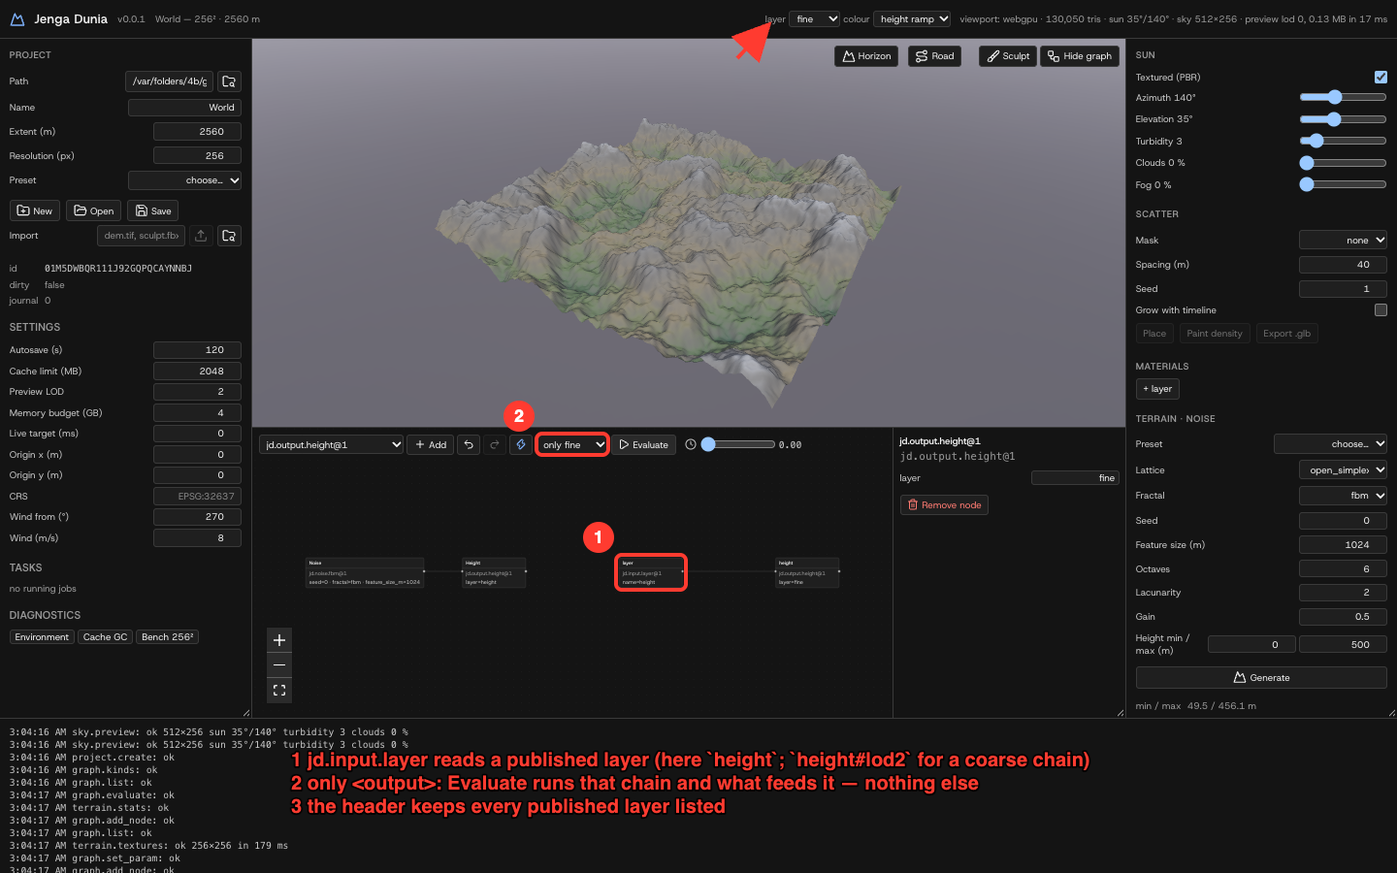
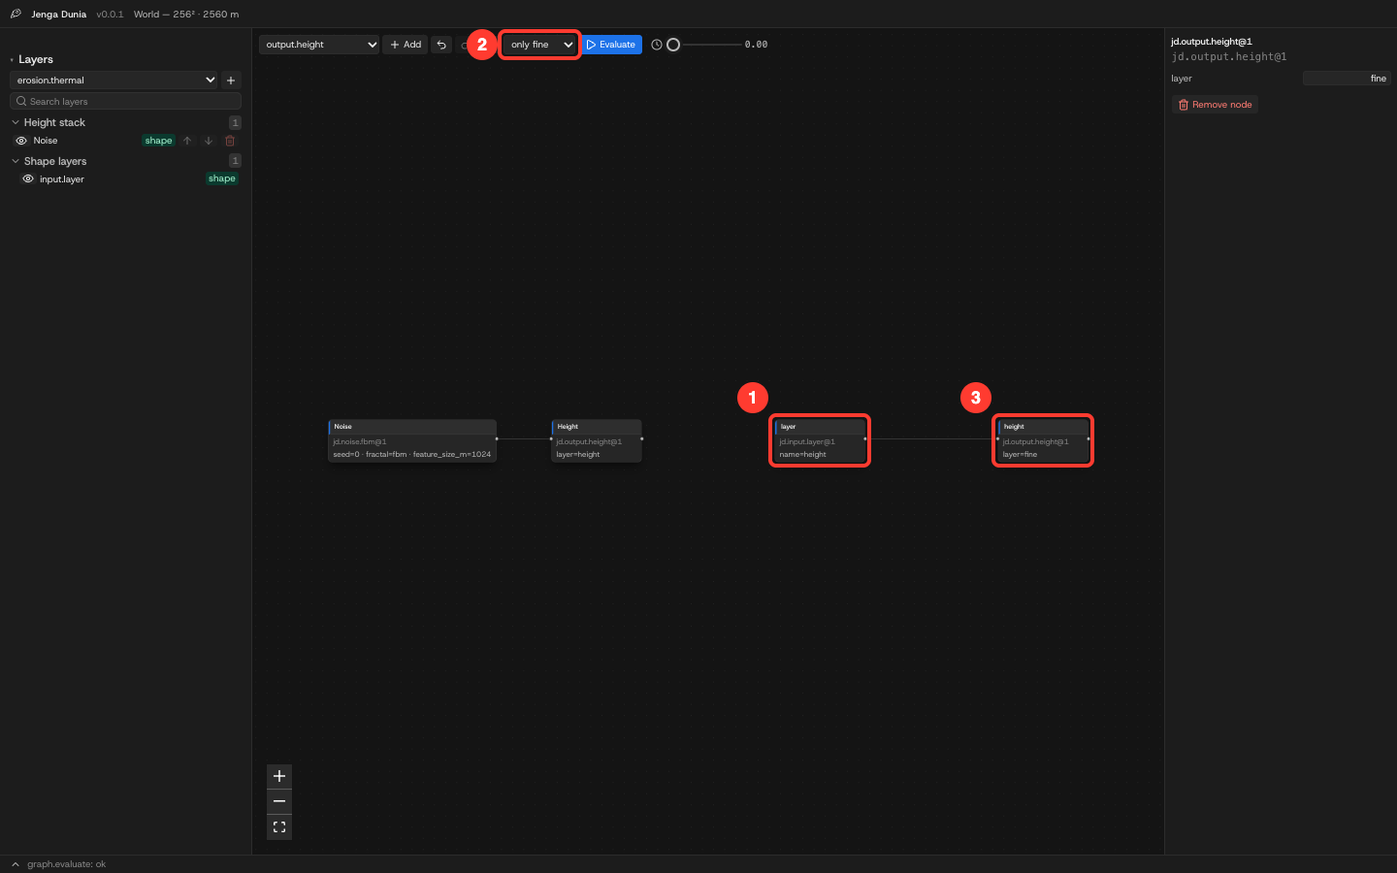
docs(user): the Editor's guide figures from its Playwright specs
figure() in e2e/bridge.ts (as Studio's guide.rs): with JD_GUIDE_OUT the spec
writes the raw page and numbered boxes from the targets' bounding boxes for
annotate.mjs. graph, hydrology, biomes, gate and timeline render the graph
tutorial, the rivers method, the biome rules, the gate and the timeline; their
captions follow the numbers, and the graph tutorial loses the viewport readout
and Sculpt items the Editor no longer has.

diff --git a/apps/desktop/e2e/bridge.ts b/apps/desktop/e2e/bridge.ts
@@ -3,8 +3,8 @@
 // and agents use. Only the transport differs from the Tauri shell.
 import { Client } from "@modelcontextprotocol/sdk/client/index.js";
 import { StdioClientTransport } from "@modelcontextprotocol/sdk/client/stdio.js";
-import { expect, type Locator, type Page } from "@playwright/test";
-import { existsSync, readFileSync, statSync } from "node:fs";
+import { expect, type Locator, type Page, type TestInfo } from "@playwright/test";
+import { existsSync, mkdirSync, readFileSync, statSync, writeFileSync } from "node:fs";
 import path from "node:path";
 import { fileURLToPath } from "node:url";
 
@@ -190,4 +190,28 @@ export async function evaluateAndWait(page: Page, button: "generate" | "graph-ev
   // graph's Evaluate gives the same terrain.
   await page.getByTestId(button === "generate" ? "graph-evaluate" : button).click();
   await expect.poll(() => logCount(page, EVALUATED), { timeout }).toBeGreaterThan(before);
+}
+
+/** A user-guide figure (as Studio's `tests/guide.rs`): with `JD_GUIDE_OUT=<dir>` the page goes to
+ *  `<dir>/raw/<name>.png` and `<dir>/<name>.annot.json` numbers a box on each target for
+ *  `scripts/annotate.mjs`; without it the screenshot lands in the test's output as before. */
+export async function figure(page: Page, testInfo: TestInfo, name: string, targets: Locator[] = []): Promise<void> {
+  const out = process.env.JD_GUIDE_OUT;
+  if (!out) {
+    await page.screenshot({ path: testInfo.outputPath(`${name}.png`) });
+    return;
+  }
+  mkdirSync(path.join(out, "raw"), { recursive: true });
+  const raw = path.join(out, "raw", `${name}.png`);
+  await page.mouse.move(1, 1); // no hover state in the figure
+  await page.screenshot({ path: raw });
+  const annotations = [];
+  for (const [i, target] of targets.entries()) {
+    const b = await target.boundingBox();
+    if (!b) throw new Error(`${name}: callout ${i + 1} is not laid out`);
+    const [x, y, w, h] = [b.x - 4, b.y - 4, b.width + 8, b.height + 8].map(Math.round) as [number, number, number, number];
+    // The badge off the box's top-left corner, or inside the image at an edge (guide.rs's rule).
+    annotations.push({ type: "box", x, y, w, h, label: String(i + 1), lx: x < 36 ? x + w + 18 : x - 18, ly: y < 36 ? y + h / 2 : y - 18 });
+  }
+  writeFileSync(path.join(out, `${name}.annot.json`), JSON.stringify({ src: raw, out: path.join(out, `${name}.png`), annotations }, null, 2));
 }

diff --git a/apps/desktop/e2e/graph.spec.ts b/apps/desktop/e2e/graph.spec.ts
@@ -2,7 +2,7 @@ import { expect, test } from "@playwright/test";
 import { mkdtempSync, readFileSync, rmSync } from "node:fs";
 import { tmpdir } from "node:os";
 import path from "node:path";
-import { connectCore, evaluateAndWait, installBridge, createProject, coreOp } from "./bridge";
+import { connectCore, evaluateAndWait, installBridge, createProject, coreOp, figure } from "./bridge";
 
 const NOISE = "01JDGRAPH000000000000N01SE"; // starter graph ids (jd_graph::nodes)
 
@@ -101,6 +101,8 @@ test.describe("node graph editor against the real core", () => {
     // Delete key on the selected blur node removes it and its edge through graph.remove_node.
     await blur.click();
     await expect(blur).toHaveClass(/selected/); // the key goes to the selected node; under load the click lands late
+    // The guide's figure: the kinds list and Add, Evaluate, the wired blur node, its inspector.
+    await figure(page, testInfo, "tutorial-03-graph", [page.getByTestId("graph-kind"), page.getByTestId("graph-evaluate"), blur, page.getByTestId("graph-inspector")]);
     await blur.press("Delete");
     await expect(panel.locator(".react-flow__node")).toHaveCount(2);
     await expect(panel.locator(".react-flow__edge")).toHaveCount(1);
@@ -122,7 +124,6 @@ test.describe("node graph editor against the real core", () => {
       .map((l) => (JSON.parse(l) as { op: string }).op);
     expect(ops).toEqual(["graph.set_param", "graph.add_node", "graph.connect", "graph.move_node", "graph.remove_node", "graph.restore", "graph.restore"]);
 
-    await page.screenshot({ path: testInfo.outputPath("graph-editor.png") });
     expect(errors, "no uncaught page errors").toEqual([]);
     await core.close();
   });

diff --git a/apps/desktop/e2e/timeline.spec.ts b/apps/desktop/e2e/timeline.spec.ts
@@ -2,7 +2,7 @@ import { expect, test } from "@playwright/test";
 import { mkdtempSync, rmSync } from "node:fs";
 import { tmpdir } from "node:os";
 import path from "node:path";
-import { connectCore, evaluateAndWait, fitView, installBridge, logCount, selectNode, wire, createProject, layerStats } from "./bridge";
+import { connectCore, evaluateAndWait, fitView, installBridge, logCount, selectNode, wire, createProject, layerStats, figure } from "./bridge";
 
 const NOISE = "01JDGRAPH000000000000N01SE"; // starter graph ids (jd_graph::nodes)
 const HEIGHT = "01JDGRAPH0000000000HE1GHT0";
@@ -65,7 +65,7 @@ test.describe("timeline against the real core", () => {
     await expect(page.getByTestId("graph-time-value")).toHaveText("1.00");
     await expect(page.getByTestId("log")).toContainText("graph.set_time: ok");
     await expect.poll(hash, { timeout: 30_000 }).not.toBe(hashAt0);
-    await page.screenshot({ path: testInfo.outputPath("timeline.png") }); // tutorial image source
+    await figure(page, testInfo, "desktop-timeline", [thermal, page.getByTestId("graph-time")]);
     // Undo takes the time back to 0 (journaled like any edit).
     await page.getByTestId("graph-undo").click();
     await expect(page.getByTestId("graph-time-value")).toHaveText("0.00");

diff --git a/apps/desktop/e2e/hydrology.spec.ts b/apps/desktop/e2e/hydrology.spec.ts
@@ -2,7 +2,7 @@ import { expect, test } from "@playwright/test";
 import { mkdtempSync, readFileSync, rmSync } from "node:fs";
 import { tmpdir } from "node:os";
 import path from "node:path";
-import { connectCore, evaluateAndWait, fitView, installBridge, logCount, selectNode, wire, createProject, coreOp, layerStats } from "./bridge";
+import { connectCore, evaluateAndWait, fitView, installBridge, logCount, selectNode, wire, createProject, coreOp, layerStats, figure } from "./bridge";
 
 const NOISE = "01JDGRAPH000000000000N01SE"; // starter graph ids (jd_graph::nodes)
 const HEIGHT = "01JDGRAPH0000000000HE1GHT0";
@@ -49,7 +49,7 @@ test.describe("hydrology nodes against the real core", () => {
     await method.selectOption("dinf");
     await expect(page.getByTestId("log")).toContainText("graph.set_param: ok");
     await expect(rivers).toContainText("method=dinf");
-    await page.screenshot({ path: testInfo.outputPath("hydrology-inspector.png") }); // tutorial image source
+    await figure(page, testInfo, "desktop-rivers-method", [method, rivers]);
 
     // Wire noise → rivers (in) and rivers.out → height output, replacing the starter edge, then evaluate.
     await wire(page, noise, rivers, "out", "in"); // the rivers node also has a `drains` input

diff --git a/apps/desktop/e2e/biomes.spec.ts b/apps/desktop/e2e/biomes.spec.ts
@@ -2,7 +2,7 @@ import { expect, test } from "@playwright/test";
 import { mkdtempSync, readFileSync, rmSync } from "node:fs";
 import { tmpdir } from "node:os";
 import path from "node:path";
-import { connectCore, evaluateAndWait, installBridge, wire, createProject, coreOp } from "./bridge";
+import { connectCore, evaluateAndWait, installBridge, wire, createProject, coreOp, figure } from "./bridge";
 
 const NOISE = "01JDGRAPH000000000000N01SE";
 const HEIGHT = "01JDGRAPH0000000000HE1GHT0";
@@ -45,7 +45,7 @@ test.describe("biome rules editor against the real core", () => {
     await slope.fill("0.6,2");
     await slope.blur();
     await expect(node).toContainText("rules=");
-    await page.screenshot({ path: testInfo.outputPath("biome-rules.png") }); // tutorial image source
+    await figure(page, testInfo, "desktop-biome-rules", [inspector.getByTestId("param-rules-row-0"), inspector.getByTestId("param-rules-add")]);
     // An inverted range is refused by the core before anything is journaled; the table keeps the last good value.
     const height = inspector.getByTestId("param-rules-0-height_m");
     await height.fill("900,100");

diff --git a/apps/desktop/e2e/gate.spec.ts b/apps/desktop/e2e/gate.spec.ts
@@ -2,7 +2,7 @@ import { expect, test } from "@playwright/test";
 import { mkdtempSync, rmSync } from "node:fs";
 import { tmpdir } from "node:os";
 import path from "node:path";
-import { connectCore, evaluateAndWait, installBridge, logCount, selectNode, wire, createProject, coreOp } from "./bridge";
+import { connectCore, evaluateAndWait, installBridge, logCount, selectNode, wire, createProject, coreOp, figure } from "./bridge";
 
 const HEIGHT = "01JDGRAPH0000000000HE1GHT0";
 
@@ -56,7 +56,7 @@ test.describe("gate pattern against the real core", () => {
     await expect.poll(() => logCount(page, "graph.evaluate: ok"), { timeout: 30_000 }).toBeGreaterThan(before);
     // Published: the core lists the layer (Studio's layer and colour pickers show it).
     await expect.poll(async () => ((await coreOp(core, "terrain.layers")) as { layers: string[] }).layers).toContain("fine");
-    await page.screenshot({ path: testInfo.outputPath("gate.png") }); // tutorial image source
+    await figure(page, testInfo, "desktop-gate", [layer, only, fine]);
     expect(errors, "no uncaught page errors").toEqual([]);
     await core.close();
   });

diff --git a/docs/user/desktop-app.md b/docs/user/desktop-app.md
@@ -2,7 +2,7 @@
 
 Status: two windows (ADR-0017). **Studio** is the app you open: the 3-D viewport and every panel — project, reference image, layers, settings, tasks and diagnostics on the left; brush, grid, sun, scatter, caves, actions, materials, noise and export on the right; the operations log at the bottom. It owns the engine. **The Editor** (Graph button, or File ▸ Open in Studio) is the node graph: the layer stack beside the graph and its inspector, a status bar with the last log line and the log behind it. Both follow each other — a project opened in one opens in the other, an edit made in one shows in the other, a node selected in one is selected in the other — and both have the same menus and shortcuts (⌘N ⌘O ⌘S ⌘I ⌘E ⌘G ⌘R ⌥⌘Z ⇧⌥⌘Z).
 
-> **The figures are rendered from Studio** offscreen at 1440×900 by `apps/studio/tests/guide.rs` (`JD_GUIDE_OUT=<dir> cargo test -p jd-studio --test guide -- --ignored --test-threads 1`), and `apps/desktop/scripts/annotate.mjs` draws the numbered boxes on the controls they name, so a layout change moves them with it. The Editor's graph figures (the graph tutorial, the rivers method, biome rules, the gate and the timeline), the real-world fetch, the menus and the screen recordings still show the earlier single-window app.
+> **The figures are rendered from Studio** offscreen at 1440×900 by `apps/studio/tests/guide.rs` (`JD_GUIDE_OUT=<dir> cargo test -p jd-studio --test guide -- --ignored --test-threads 1`), and `apps/desktop/scripts/annotate.mjs` draws the numbered boxes on the controls they name, so a layout change moves them with it. The Editor's figures come from its Playwright specs the same way (`JD_GUIDE_OUT=<dir> pnpm exec playwright test` in `apps/desktop`; `figure()` in `e2e/bridge.ts`). The real-world fetch, the menus and the screen recordings still show the earlier single-window app.
 
 ![Studio with no project open: the Project, Tasks and Diagnostics sections on the left, an empty viewport asking for a project, the Sun, Scatter and Caves sections on the right](images/desktop-empty.png)
 
@@ -92,15 +92,14 @@ Every project starts with a two-node graph (`Noise → Height`), the same `graph
 
 **Preview detail.** The viewport shows a preview of at most **1024²** samples (about 2 MB a transfer and 2 M triangles) whatever the world's size — a 4096² world previews at lod 2. Settings ▸ **Preview detail** switches to **2048²** for worlds above 1024² when the fine ridges matter more than the frame rate: 4× the samples, 8 MB a transfer, about 8 M triangles, and the PBR maps bake at 2048 too; the header's `preview lod N, X MB` says what came across. The choice is an app setting in the browser store.
 
-![Node graph: add, evaluate, edit, connect, inspect](images/tutorial-03-graph.png)
+![The Editor: the kinds list for Add (1), Evaluate (2), a blur node wired from the noise (3) and its inspector (4); the layer stack on the left](images/tutorial-03-graph.png)
 
-1. **Add** — pick a kind from the list (`graph.kinds` drives it) and click **Add**; the node is placed to the right of the graph and the view re-fits.
-2. **Undo · Redo · ⚡ · Evaluate** — the toolbar's history buttons, the live-preview toggle and full-resolution evaluation, also **Terrain → Evaluate Graph (⌘R)**. While an evaluation runs, the header shows the job (`graph.evaluate · node 2/4 hydraulic · 3.2 s`) with a **Cancel** button; cancelling stops at the next node or erosion iteration and logs `E_CANCELLED` — nothing is published. With **live preview** (⚡, on by default) every edit re-evaluates at preview resolution (≤ 512², published as `height#lod<N>`) so the viewport follows your changes; unchanged nodes come from cache. A half-wired graph pauses the live preview with a `live preview waiting: input … not connected` line instead of an error. Export always evaluates at full resolution first.
-3. **Nodes** — click to select, drag to move (the position is saved in the project), **Delete**/**Backspace** removes the node and its edges. The ↶ ↷ buttons (or **Edit → Undo/Redo Graph Edit**, ⌥⌘Z / ⇧⌥⌘Z) step through the edit history; ⌘Z alone stays with the text fields. The capture shows a `noise → hydraulic erosion → height` graph (the hydraulic node overlaps the noise node because it was added from the CLI without a position).
-4. **Inspector** — the selected node's parameters, generated from the kind's JSON schema (enums become drop-downs, defaults show as placeholders). Leaving a field applies `graph.set_param`; number fields take arithmetic (`512*2`, `(1+2)*3`, `2^10`, `sqrt(2)`, `pi/4`, `min(a, b)`) and store the result; hovering a node for a quarter second shows a thumbnail of its output (`graph.node_preview`, the graph at a coarse lod through the cache, so it costs a cache hit after the first look); an invalid value is rejected by the core before anything is journaled and the reason appears in the log.
-5. **Viewport readout** — backend, triangle count and preview transfer for the evaluated layer (here the hydraulically eroded 512² terrain, live-previewed when the project opened). When the graph publishes more than one layer (e.g. a second output node named `water` fed by the hydraulic node's `water` port, or `slope` from the slope mask), a **layer** picker appears in the header; the viewport and stats follow the chosen layer, and live previews keep showing it.
+1. **Add** — pick a kind from the list (1) (`graph.kinds` drives it) and click **Add**; the node is placed to the right of the graph and the view re-fits.
+2. **Undo · Redo · ⚡ · Evaluate** (2) — the toolbar's history buttons, the live-preview toggle and full-resolution evaluation, also **Terrain → Evaluate Graph (⌘R)**. While an evaluation runs, the header shows the job (`graph.evaluate · node 2/4 hydraulic · 3.2 s`) with a **Cancel** button; cancelling stops at the next node or erosion iteration and logs `E_CANCELLED` — nothing is published. With **live preview** (⚡, on by default) every edit re-evaluates at preview resolution (≤ 512², published as `height#lod<N>`) so the viewport follows your changes; unchanged nodes come from cache. A half-wired graph pauses the live preview with a `live preview waiting: input … not connected` line instead of an error. Export always evaluates at full resolution first.
+3. **Nodes** — click to select, drag to move (the position is saved in the project), **Delete**/**Backspace** removes the node and its edges. The ↶ ↷ buttons (or **Edit → Undo/Redo Graph Edit**, ⌥⌘Z / ⇧⌥⌘Z) step through the edit history; ⌘Z alone stays with the text fields. The capture shows a blur node (3) just wired from the noise; it feeds nothing yet, so the height still comes from the noise.
+4. **Inspector** (4) — the selected node's parameters, generated from the kind's JSON schema (enums become drop-downs, defaults show as placeholders). Leaving a field applies `graph.set_param`; number fields take arithmetic (`512*2`, `(1+2)*3`, `2^10`, `sqrt(2)`, `pi/4`, `min(a, b)`) and store the result; hovering a node for a quarter second shows a thumbnail of its output (`graph.node_preview`, the graph at a coarse lod through the cache, so it costs a cache hit after the first look); an invalid value is rejected by the core before anything is journaled and the reason appears in the log.
 
-6. **Sculpt** — enters sculpt mode (next tutorial).
+Studio's viewport shows what the graph evaluated. When the graph publishes more than one layer (e.g. a second output node named `water` fed by the hydraulic node's `water` port, or `slope` from the slope mask), a **layer** picker appears in the header; the viewport and stats follow the chosen layer, and live previews keep showing it.
 
 **Presets.** A node kind with named presets (thermal, hydraulic, stream power, aeolian, snowpack, rain, debris, lava, terrace, karst) shows a **preset** select at the top of its inspector — World Creator's per-filter presets; choosing one applies its values as ordinary journaled edits, so undo removes them one at a time.
 
@@ -208,15 +207,15 @@ Around the terrain the viewport carries what World Creator's does: a **compass s
 
 *Paint density: with a mask chosen, **Paint density** (1) splices a stroke node in front of the output that publishes that mask — the same `jd.sculpt.strokes@1` as sculpting, with `clamp` 0…1 so the mask stays a probability — and switches the viewport to the brush at strength 0.5 (2). Each drag adds density under the brush (a negative strength thins it), is one journaled stroke that undo removes, and the live preview re-places the instances, so the count in the status bar follows the brush. This is VUE's EcoPainter idea on top of the node graph: the painted layer is data in the project, replayable and exportable like any other. UI-driven tests: Studio's `paint_density_arms_a_clamped_brush_on_the_mask` and `apps/desktop/e2e/paint.spec.ts` (scatters from a wetness mask, paints one stroke, checks the instance count rises).*
 
-![Node editor: rivers node selected, inspector with the method select set to dinf](images/desktop-rivers-method.png)
+![The Editor: the rivers node (2) selected, its inspector's method select (1) set to dinf](images/desktop-rivers-method.png)
 
-*Inside the app: pick `jd.hydrology.rivers@1` in the kinds dropdown and **Add** (1), click the node (2) and the schema-driven inspector shows its parameters; `method` is a select built from the node's schema — switch it from `d8` to `dinf` (3) and the node label updates (`method=dinf`) after the core journals `graph.set_param`. `jd.hydrology.sea_level@1` adds the same way and exposes two output handles, `ocean` and `depth`. Numbers that come from the core as 32-bit floats are shown rounded (`0.55`, not `0.550000011920929`). Captured by the UI-driven test `apps/desktop/e2e/hydrology.spec.ts`.*
+*Inside the app: pick `jd.hydrology.rivers@1` in the kinds dropdown and **Add**, click the node (2) and the schema-driven inspector shows its parameters; `method` (1) is a select built from the node's schema — switch it from `d8` to `dinf` and the node label updates (`method=dinf`) after the core journals `graph.set_param`. `jd.hydrology.sea_level@1` adds the same way and exposes two output handles, `ocean` and `depth`. Numbers that come from the core as 32-bit floats are shown rounded (`0.55`, not `0.550000011920929`). Captured by the UI-driven test `apps/desktop/e2e/hydrology.spec.ts`.*
 
 ![Viewport with depth-shaded water at 250 m over the carved hills: pale foam along the shore, turquoise shallows; the status bar reads sea 250 m (1)](images/desktop-sea-level.png)
 
-![Inspector with the biome rules table: one row named scree with a slope range, add-row button](images/desktop-biome-rules.png)
+![Inspector with the biome rules: one rule named scree (1) with a slope range, and + row (2)](images/desktop-biome-rules.png)
 
-*Rules as a table: for parameters that are lists of records (biome rules) the inspector shows a table — **+ row** adds a rule, each cell applies on blur (`min,max` for ranges, empty for "no constraint"), the bin removes a row. The columns come from the node schema, so the `mask` band (the classify node's free `mask` input: playa depth for a salt crust, a painted mask) appears beside height, slope and wetness. Every edit is one journaled `graph.set_param`; a value the core refuses (an inverted range) is reported in the log before anything is journaled and the table keeps the last good value. Recorded brush strokes stay a count — they are data, not something to type. UI-driven test: `apps/desktop/e2e/biomes.spec.ts`.*
+*Rules as records: for parameters that are lists of records (biome rules) the inspector shows one block of fields per record (1) — **+ row** (2) adds a rule, each field applies on blur (`min,max` for ranges, empty for "no constraint"), the bin removes a rule. The fields come from the node schema, so the `mask` band (the classify node's free `mask` input: playa depth for a salt crust, a painted mask) appears beside height, slope and wetness. Every edit is one journaled `graph.set_param`; a value the core refuses (an inverted range) is reported in the log before anything is journaled and the field keeps the last good value. Recorded brush strokes stay a count — they are data, not something to type. UI-driven test: `apps/desktop/e2e/biomes.spec.ts`.*
 
 *Sea in the viewport: as soon as the graph contains a `jd.hydrology.sea_level@1` node (1) the viewport draws water at its `level_m` — edit the value (2) and it moves with it; the header's viewport line reports the height (boxed, top right). The surface is shaded by the depth of the terrain under each vertex: a pale foam band within ~1 % of the height range of the shore, translucent turquoise shallows darkening to opaque navy with an e-folding depth of 12 % of the height range, and nothing drawn over land (alpha 0), so the shoreline reads without a custom shader (`buildSeaGeometry`, unit-tested). Water is only drawn while the **height** layer is shown (masks like `ocean` or `rivers` are 0..1 and would hide under it). Same e2e test.*
 
@@ -232,9 +231,9 @@ Around the terrain the viewport carries what World Creator's does: a **compass s
 
 *Hydrology first: `jd.hydrology.network@1` has no inputs — it grows the drainage network from the river mouths (`mouths`: south by default, or the whole border for an island) and builds the heights along it, headwaters steep and big rivers flat. Wire `out` to the height output and `rivers` to a second output to colour the terrain by its trunks (1); `river_order` sets which Strahler order counts as a river. Every cell drains by construction: a `jd.hydrology.fill@1` node on `out` reports an empty `lakes` layer. `network.spec.ts` drives this through the UI.*
 
-![Gate project: a second chain reads the published height layer through a jd.input.layer node into an output named fine; the graph toolbar's selector reads "only fine" and the header lists both layers](images/desktop-gate.png)
+![Gate project: a second chain reads the published height layer through a jd.input.layer node (1) into an output named fine (3); the graph toolbar's selector reads "only fine" (2)](images/desktop-gate.png)
 
-*The gate pattern in the app: `jd.input.layer@1` (1) reads any layer the project has published — `height` here, `height#lod2` when a coarse chain was evaluated at the preview resolution — and the toolbar's `only <output>` selector (2) makes Evaluate (and the live preview) run just that output's chain, so a 16k² world can erode at a coarse level and pick up its fine detail at full resolution without ever holding the heavy chain at 16k² (the CLI quickstart has the numbers). The header keeps listing every published layer (3). `gate.spec.ts` drives this through the UI.*
+*The gate pattern in the app: `jd.input.layer@1` (1) reads any layer the project has published — `height` here, `height#lod2` when a coarse chain was evaluated at the preview resolution — and the toolbar's `only <output>` selector (2) makes Evaluate (and the live preview) run just that output's chain, so a 16k² world can erode at a coarse level and pick up its fine detail at full resolution without ever holding the heavy chain at 16k² (the CLI quickstart has the numbers). The output named `fine` (3) publishes the result beside `height`; Studio's layer picker lists both. `gate.spec.ts` drives this through the UI.*
 
 ## Real world
 
@@ -284,7 +283,7 @@ The UI-driven test `e2e/simlayers.spec.ts` adds all four on a 128² world and ch
 
 ## Timeline
 
-![Graph toolbar with the timeline slider at 1.00 and a thermal node whose summary reads iterations=⏱2 keys, eroding the terrain with 300 steps](images/desktop-timeline.png)
+![The thermal node (1), whose summary reads iterations=⏱2 keys, and the graph toolbar's timeline slider (2) at 1.00](images/desktop-timeline.png)
 
 *Any parameter can be keyframed: type `t:v, t:v` in its inspector field — `0:1, 1:300` keys a thermal node from one step to three hundred over the timeline — and the node summary shows ⏱ with the key count (1). The slider in the graph toolbar (2) is the timeline position: moving it journals one `graph.set_time` per drag (undo takes it back), and the live preview re-evaluates with the parameters resolved at that time — numbers interpolate, choices step. Scrubbing back is instant because each time position caches on its own. The UI-driven test `apps/desktop/e2e/timeline.spec.ts` keys a thermal node, scrubs to 1.0 and checks the published height's hash changes.*
 
